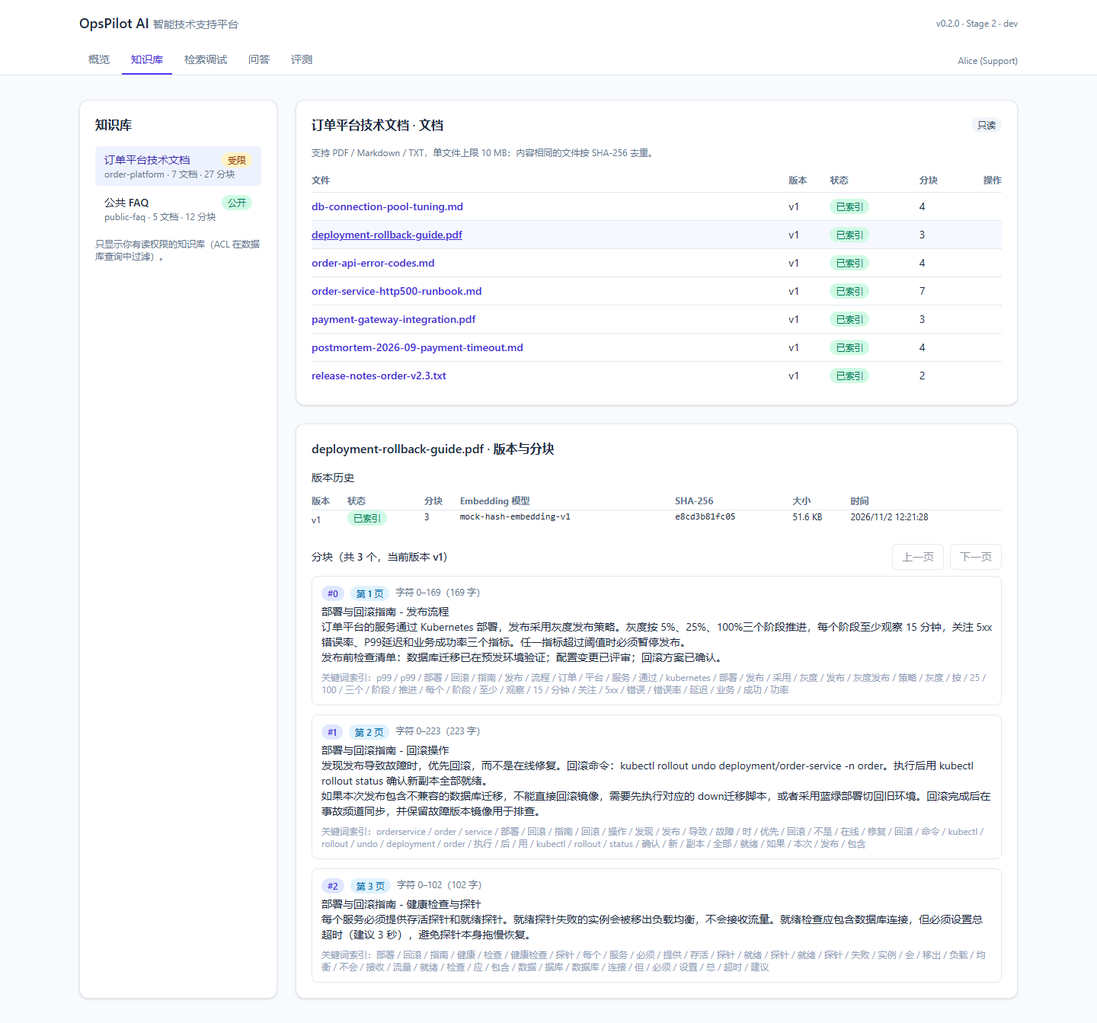
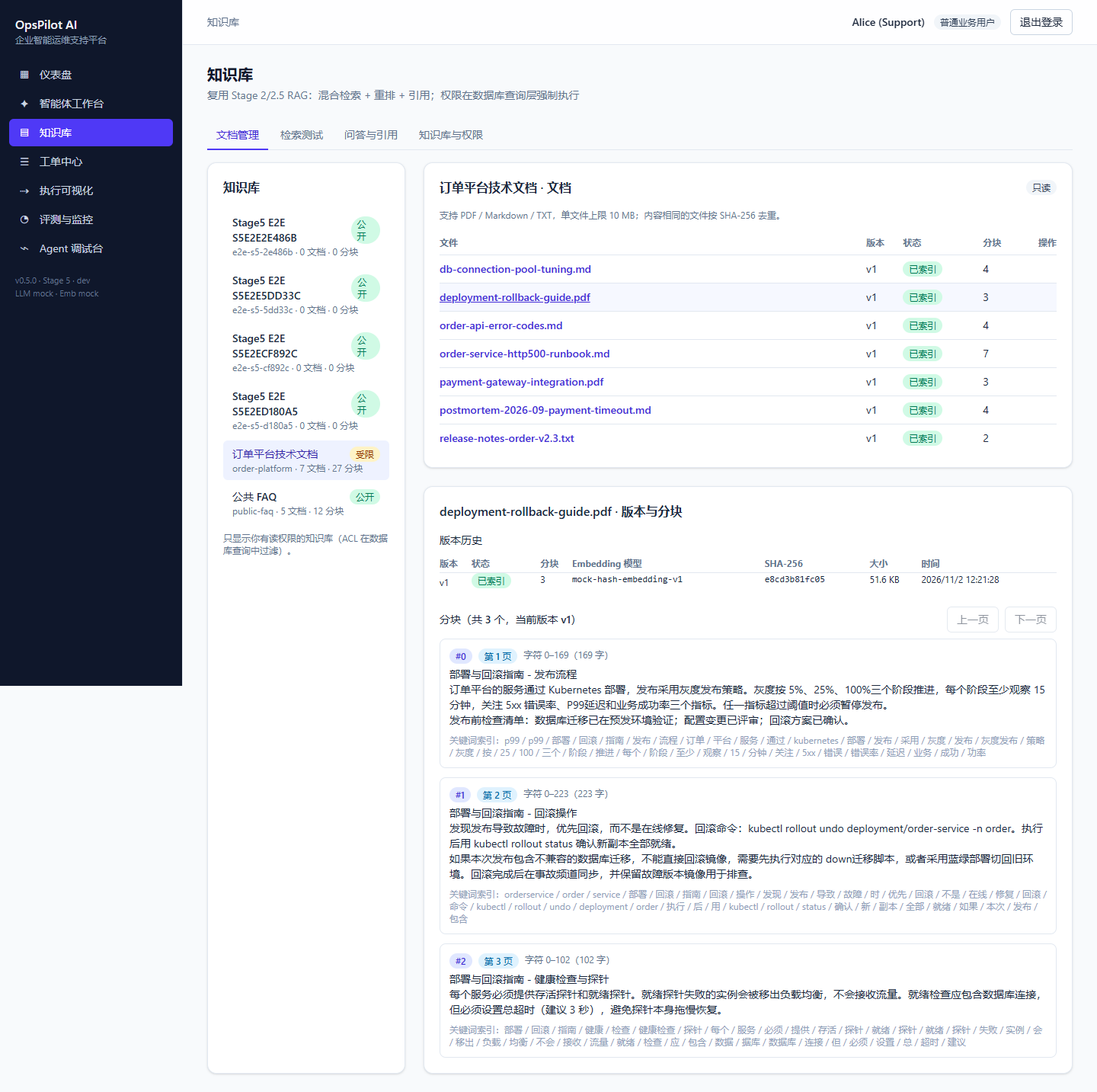
docs(stage5): report, API, page map, demo script, screenshots

diff --git a/docs/API_STAGE5.md b/docs/API_STAGE5.md
@@ -1,0 +1,55 @@
+# 阶段 5 API 补充（Web 平台）
+
+Base URL（开发）：`http://localhost:8020`，前端经 Vite / nginx 以 `/api` 反向代理访问。认证、错误格式见 [API.md](API.md)。
+角色：`admin` 系统管理员 · `support` 技术支持工程师 · `user` 普通业务用户。下表「staff」= admin 或 support。
+
+## Agent 运行与 SSE
+| 方法 | 路径 | 权限 | 说明 |
+|---|---|---|---|
+| POST | `/api/v1/agent/runs` | 登录 | `{message, thread_id?, kb_ids?, stream?}`。`stream=true` 时立即返回 `{run_id, thread_id, status:"running"}`，图在后台线程执行，进度从 `/events` 读取；同一会话存在可恢复的中断运行时返回 409 |
+| GET | `/api/v1/agent/runs/{id}/events` | 创建者 / admin | **SSE**，见下 |
+| POST | `/api/v1/agent/runs/{id}/cancel` | 创建者 / admin | 协作式取消：在下一个节点边界停止，状态 `aborted`，`error="cancelled_by_user"` |
+| POST | `/api/v1/agent/runs/{id}/approval?stream=` | admin | 批准 / 驳回 / 退回修改，可后台继续执行 |
+| POST | `/api/v1/agent/runs/{id}/resume?stream=` | 创建者 / admin | 从 PostgresSaver 检查点继续 |
+| GET | `/api/v1/agent/threads` | 登录 | 本人会话列表（标题、最新状态、运行数） |
+| GET | `/api/v1/agent/threads/{thread_id}` | 本人 / admin | 会话下全部运行（刷新后恢复对话） |
+
+### SSE 协议（`text/event-stream`）
+- 事件持久化在 `agent_events(run_id, seq, type, data)`，`seq` 每个运行内从 1 递增，唯一。
+- 游标：请求头 `Last-Event-ID: <seq>` 或查询参数 `?after=<seq>`，服务端只发送 `seq` 更大的事件（断线重连不丢、不重）。
+- 每条事件：`id: <seq>`、`event: <type>`、`data: <JSON>`。首行发送 `retry: 2000`；每 10 秒发送注释心跳 `: hb`。
+- 事件类型：`run_started` · `node`（节点完成：name、耗时、摘要）· `tool`（MCP 工具调用结果）· `evidence`（证据条数、得分）· `interrupt`（等待审批）· `cancel_requested` · `final`（最终状态）。
+- 结束：运行进入非活动状态且已发出 `final` 后发送 `event: end`；超过 `max_s` 发送 `event: timeout`，客户端可带游标重连。
+- 这是**节点 / 事件级流式**，不是逐 token 流式（Mock 模型无 token 流）。
+- 前端客户端（`frontend/src/lib/sse.ts`）用 fetch 流以便携带 `Authorization` 头；指数退避重连，最多 8 次，按 `seq` 去重。E2E 中人为在第 2 条事件后切断连接，实测重连请求 `Last-Event-ID` 依次为 `0`、`2`，19 条事件无缺无重。
+
+## 仪表盘
+`GET /api/v1/dashboard/summary`（登录；运行类指标 admin 统计全部、其他角色只统计本人；工单指标 staff 全部、普通用户本人）→ 工单总数 / 待处理 / 已完成、Agent 运行数、任务成功率（同时返回 `numerator` / `denominator`，无数据时为 `null` 而不是 0%）、近 14 天每日运行数、延迟 p50 / p95（`percentile_cont`）、工具调用成功率、Mock / 真实模型使用次数、最近运行。全部来自数据库实时查询，无写死数据。
+
+## 工单
+| 方法 | 路径 | 权限 | 说明 |
+|---|---|---|---|
+| GET | `/api/v1/mcp/tickets?q&status&priority` | 登录 | user 只看本人；staff 看全部 |
+| GET | `/api/v1/mcp/tickets/{number}` | 同上 | 增加 description、resolution、updated_at、事件的 actor_name / approver_name |
+| PATCH | `/api/v1/tickets/{number}` | staff | `{status, note, resolution?}`；note 必填，`resolved` 必须填 resolution；非法流转 409。写入 TicketEvent（note 前缀 `[manual:<role>]`） |
+| GET | `/api/v1/ticket-transitions` | 登录 | 合法流转表：open→in_progress/resolved/closed；in_progress→open/resolved/closed；resolved→in_progress/closed；closed→in_progress |
+| GET | `/api/v1/ticket-drafts` | admin 全部 / 其他人本人 | 草稿 + 审批记录 |
+
+## 知识库管理
+| 方法 | 路径 | 权限 | 说明 |
+|---|---|---|---|
+| POST | `/api/v1/knowledge-bases` | staff | `{slug, name, description?, visibility}`，创建者为 owner |
+| GET | `/api/v1/knowledge-bases/{id}/permissions` | owner / KB admin 授权 / 系统管理员 | 授权列表 |
+| PUT | `/api/v1/knowledge-bases/{id}/permissions` | 同上 | 整体替换 `[{user_id, permission: read|write|admin}]`，写入 admin_audit |
+
+## 用户与权限（admin）
+| 方法 | 路径 | 说明 |
+|---|---|---|
+| GET | `/api/v1/admin/users` · `/admin/roles` · `/admin/audit` | 列表 / 角色说明 / 审计 |
+| POST | `/api/v1/admin/users` | 密码至少 10 位且含字母和数字；邮箱重复 409 |
+| PATCH | `/api/v1/admin/users/{id}` | 改角色 / 启停 / 重置密码。最后一个启用的管理员不能被降级或停用（行锁 `FOR UPDATE`，409）。审计中密码只记为 `reset` |
+| GET | `/api/v1/users/directory` | staff；授权编辑器用的精简用户列表 |
+| GET | `/api/v1/admin/settings` | 模型、运行时、付费预算与账本、健康检查。密钥只返回 `api_key_configured: true/false`，任何接口都不返回明文 |
+
+## 评测结果
+`GET /api/v1/evals/results`：读取 `evals/results/*.json`，归一为 `rag` / `agent` 两类行，带 `is_mock`、数据集、模型；缺失指标返回 `null`；无法解析的文件列在 `skipped`。前端按 Mock / 真实、数据集分组展示，不同数据集不合并平均。

diff --git a/docs/reports/STAGE5_REPORT.md b/docs/reports/STAGE5_REPORT.md
@@ -1,0 +1,48 @@
+# 阶段 5 报告：企业级 Web 平台（Mock 模型，零付费调用）
+
+日期：2026-11-08（box 时钟）· 版本 0.5.0 · tag `stage-5`（本地，未推送）
+范围：在阶段 4 后端之上做完整 React 平台。**没有新写第二套 Agent 或 RAG**，前端全部调用已有服务；后端只补 SSE 事件、平台聚合与管理接口。
+本阶段**没有任何付费调用**，也没有续跑阶段 4 获批但未执行的 Qwen 测试。
+
+## 1. 已实际验证
+| 项目 | 环境 | 结果 |
+|---|---|---|
+| 后端测试 `uv run pytest -q` | box、WSL（连接 compose 的 opspilot_test） | **257 passed, 1 skipped**（两边一致）；新增 tests/stage5：SSE 5、平台接口 7、迁移 0006 往返（一次性数据库） |
+| ruff check + format --check | box、WSL | 通过 |
+| 前端 eslint（0 warning）· tsc · vitest · build | box；WSL 的 frontend 容器内 | 通过；vitest **31 passed** |
+| 迁移 0006（agent_events、admin_audit、support 角色） | WSL 主库，迁移前备份 `data/backups/pre_stage5_20261108121146.dump`（未提交） | upgrade 成功，`/health/ready` 显示 revision 0006 |
+| Windows Edge E2E（`scripts/e2e_windows.ps1 -ProdUrl …`），exit 0 | Windows 11 Edge → WSL compose | 7 组全部通过：登录 admin / alice PASS；rag_e2e PASS；agent_e2e ok；mcp_e2e ok；**stage5_e2e 开发版 (5173) ok、生产版 (5180) ok** |
+| stage5_e2e 关键检查 | 同上 | 表单校验与错误密码；admin 建知识库并上传含唯一错误码 PGW-xxxxx 的文档 →「已索引」；检索测试命中；**SSE 第 2 条后人为断开，重连请求 Last-Event-ID = [0, 2]，19 条事件无缺无重**；alice 运行调用 5 个 MCP 工具，证据来自刚上传的文档，停在等待审批；刷新后会话恢复；alice 访问管理页显示无权访问、API 403；admin 驳回确认框 → 取消 → 批准建单（如 TCK-0014）；sam（support）改为处理中；仪表盘工单数 +1；重复登录无 401；删除文档确认框；控制台无意外错误（预期的 401/403 除外） |
+| 生产构建 | WSL `--profile prod`，nginx-unprivileged，read_only | `/` 200、SPA 回退 200、`/api` 代理 200、CSP / X-Frame-Options 等头存在；SSE location 关闭缓冲 |
+| 端口 | WSL | 5173、5180、8020、5433 均只监听 127.0.0.1 |
+| 截图 | Edge 实拍 | `docs/assets/stage5/*.png`（13 张）、`docs/assets/stage5/prod/`（4 张）；阶段 2–4 回归截图同步刷新 |
+
+## 2. 仅静态检查（未在运行环境单独验证）
+- 后台线程执行与取消在并发很高时的表现：只有单元测试和单用户 E2E，没做压力测试。
+- 心跳 `: hb` 与 `event: timeout`（max_s）：单元测试覆盖，浏览器里没有等到超时。
+- nginx 900 秒 SSE 超时：只检查了配置，没有跑满 15 分钟的连接。
+- 普通用户 / support 在仪表盘上的统计范围：代码与单元测试覆盖，E2E 只截了 admin 的仪表盘。
+- 迁移 0006 的 downgrade：只在一次性测试库验证，没在主库执行。
+
+## 3. 尚未验证 / 未完成
+- **真实 Qwen 模型**：未调用（按要求）。工作台、仪表盘的「真实模型」计数为 0。
+- 逐 token 流式：未做，SSE 是节点 / 事件级。
+- 知识库删除接口：没有，E2E 每次会留下一个空的公开知识库 `e2e-s5-*`（文档已删）；E2E 产生的测试工单也留在主库。rag_e2e 已改为显式选择知识库，不受影响。
+- 工作台左侧会话列表很长时整页变长（截图可见），应改为独立滚动。
+- 无障碍只做了基础（landmark、aria-label、跳转链接），没有用工具审计。
+- GitHub CI 未运行；未部署公网。
+
+## 4. 主要设计决定
+- **SSE 用数据库事件表**（不是内存队列）：重启、重连都能按 seq 续读；代价是每个节点一次写入。
+- **fetch 流代替 EventSource**：EventSource 不能带 Authorization 头，不想把 JWT 放进 URL。
+- **协作式取消**：只在节点边界停止，不强杀 MCP 子进程，避免半写状态。
+- **token 存 sessionStorage**：关闭标签即失效，401 统一登出并提示会话过期。
+- **生产镜像**：多阶段构建，nginx 非 root、只读根文件系统，安全头放 server 级（location 里用 `expires`，避免 add_header 覆盖继承）。
+- 评测页不同数据集、Mock 与真实不合并平均；缺失指标显示「—」而不是 0。
+
+## 5. 过程问题（如实记录）
+- **Docker 相关 skill 不存在**：要求先加载 docker-compose-patterns / docker-build-strategies，查找后无此 skill，按保守方式修改（只新增 prod compose 文件和 Dockerfile，dev compose 只加一个只读挂载和一个环境变量）。
+- **密钥泄露到会话输出**：在一次调试中对会 `source .env` 的脚本用了 `bash -x`，导致 OPSPILOT_LLM_API_KEY 和种子账号密码出现在本次工具输出里。没有写入任何文件、提交或日志文件。**建议轮换 DashScope / Qwen Key，并修改种子密码**。之后不再对加载 .env 的脚本使用 `-x`。
+
+## 6. 提交
+fc09176 后端 → 5b9ef65 前端 → ccbff7f / bb85437 / 2b3829d 生产构建与修复 → 46eeb40 E2E → 811e9fe、b77ff2c 修复 → 文档提交，tag `stage-5`（box 与 WSL，经 git bundle ff-only 同步）。

diff --git a/README.md b/README.md
@@ -3,12 +3,12 @@
 > Production-oriented AI Support & Ticket Resolution Platform
 > 面向软件企业技术支持 / 研发 / 客服团队的智能技术支持 Agent 平台：查文档、查日志、给出有出处的故障建议、生成待审工单，人工审批后才落库。
 
-**当前进度：阶段 4（MCP 工具接入 + 审批工作流，Mock 模型）已完成，在 WSL2 + Docker Compose 上实测（tag `stage-4`）** —— 详见 [docs/PROGRESS.md](docs/PROGRESS.md)、[阶段 4 报告](docs/reports/STAGE4_REPORT.md)、[ADR-004](docs/adr/ADR-004-stage4-mcp.md)。
+**当前进度：阶段 5（企业级 Web 平台，Mock 模型）已完成，在 WSL2 + Docker Compose + Windows Edge 上实测（tag `stage-5`）** —— 详见 [阶段 5 报告](docs/reports/STAGE5_REPORT.md)、[页面地图](docs/PAGE_MAP.md)、[阶段 5 API](docs/API_STAGE5.md)、[演示脚本](docs/DEMO_SCRIPT.md)、[docs/PROGRESS.md](docs/PROGRESS.md)。
 工具经真实 MCP 协议（官方 SDK mcp 2.3，stdio 子进程）调用；审批通过后才由 Ticket MCP 创建正式工单。Agent 默认 Mock（规则 + 抽取式，未调用大模型）；阶段 4 的真实 Qwen 测试待授权（[预算方案](docs/STAGE4_QWEN_BUDGET_PLAN.md)）。README 只写已经验证过的内容。
 
 > ⚠ 默认 **Mock 模式**：mock embedding 是特征哈希的字/词袋向量，**没有语义理解**；mock 回答器是**抽取式**的（摘录原文 + 引用），**没有调用大模型**。界面和接口都明确标注了这一点。阶段 2.5 起可选**免费本地 CPU 模型**（bge-small-zh-v1.5 / bge-m3 embedding、bge-reranker-base 重排），已实测；真实 DashScope / Qwen 付费路径有多重守卫，**尚未运行**（[方案待批准](docs/STAGE2_5_PAID_EMBED_PLAN.md)）。
 
-![评测页：Mock vs 真实 Embedding 并排对比（WSL2 实测，Windows Edge 截图）](docs/assets/stage25-evals-matrix.png)
+![阶段 5 仪表盘（Windows Edge 截图，数据来自数据库）](docs/assets/stage5/s5_dashboard_after.png)
 
 ## 文档
 - [PRD 需求说明](docs/PRD.md) · [架构说明](docs/ARCHITECTURE.md) · [数据库设计](docs/DATABASE.md) · [API 设计](docs/API.md)
@@ -100,6 +100,21 @@ cd frontend && npm ci && npm run dev      # :5173，需要 Node 22
 **免费本地模型（阶段 2.5，CPU，不需要 Key）**：`uv sync --group local-embed`（装 torch CPU 版约 1 GB；注意 `--all-groups` 也会装它），设置 `OPSPILOT_EMBEDDING_PROVIDER=local`（默认 bge-small-zh-v1.5，固定 revision），可选 `OPSPILOT_RERANKER=cross_encoder`（约 2 秒/查询）。首次下载模型后可设 `HF_HUB_OFFLINE=1`。每个 embedding 模型有独立索引，切换模型不会删除或混用旧向量，需对文档「重建索引」。
 本地评测：`uv run --group local-embed python evals/run_retrieval_eval.py --embedding local --dataset dev|heldout --rerankers rule,cross_encoder`。
 **付费路径**（`--embedding dashscope --i-understand-this-costs-money`）另需 `OPSPILOT_ALLOW_PAID_API=true`、`OPSPILOT_PAID_APPROVAL_ID`、`OPSPILOT_PAID_BUDGET_CNY`，超出预算在发请求前拒绝；**尚未运行**。
+
+## 阶段 5：Web 平台
+| 地址 | 说明 |
+|---|---|
+| http://localhost:5173 | 开发版（Vite） |
+| http://localhost:5180 | 生产版（nginx，`docker compose --env-file .env -f infra/docker-compose.yml -f infra/docker-compose.prod.yml --profile prod up -d --build frontend_prod`） |
+| http://localhost:8020/docs | 后端 API |
+
+三种角色：系统管理员（admin）、技术支持工程师（support，种子账号 sam@opspilot.local）、普通业务用户（user）。页面：仪表盘、智能体工作台（SSE 实时节点 / 工具 / 证据，断线按 Last-Event-ID 续传）、知识库与授权、工单中心与审批、执行可视化、评测与监控、用户与权限、系统设置（密钥只显示是否配置）。
+```bash
+cd frontend && npm run lint && npx tsc --noEmit -p . && npx vitest run && npm run build
+# Windows Edge 全量 E2E（开发版 + 生产版，截图）
+powershell -ExecutionPolicy Bypass -File scripts\e2e_windows.ps1 -Shots C:\tmp\shots -ProdUrl http://localhost:5180
+```
+升级到阶段 5 需要迁移 0006（backend 启动时自动执行；建议先 `pg_dump` 备份）。
 
 ## 阶段 4：MCP 工具 + 审批工作流（Mock 模型）
 三个 MCP Server（stdio，后端按需拉起，无需单独部署）：

diff --git a/docs/PAGE_MAP.md b/docs/PAGE_MAP.md
@@ -1,0 +1,18 @@
+# 页面地图（阶段 5）
+
+History 路由（`frontend/src/lib/router.tsx`），旧的 `#hash` 地址自动跳转。未登录访问任何页面跳到 `/login?next=…`；无权限显示「无权访问」页（对应 API 返回 403）。
+
+| 路由 | 页面 | 角色 | 主要接口 | 截图 |
+|---|---|---|---|---|
+| `/login` | 登录（表单校验、错误提示、会话过期提示） | 公开 | `POST /auth/login` | [s5_login](assets/stage5/s5_login.png) |
+| `/` | 仪表盘：工单、运行、成功率（含分子分母）、p50/p95、工具成功率、Mock/真实用量、每日趋势、最近运行 | 全部（按角色限定范围） | `/dashboard/summary` | [s5_dashboard_after](assets/stage5/s5_dashboard_after.png) |
+| `/workspace[/:threadId]` | 智能体工作台：会话列表、SSE 实时节点 / 工具 / 证据面板、取消、恢复、审批状态 | 全部 | `/agent/runs`、`/events`、`/threads` | [s5_workspace_pending](assets/stage5/s5_workspace_pending.png) |
+| `/knowledge?tab=docs|search|qa|manage` | 知识库：文档与分块、上传 / 更新版本 / 删除（确认框）、检索测试、问答、知识库与授权管理 | 全部；管理 tab 需 staff | `/knowledge-bases`、`/documents`、`/search`、`/qa`、`/permissions` | [s5_knowledge_docs](assets/stage5/s5_knowledge_docs.png) · [s5_kb_permissions](assets/stage5/s5_kb_permissions.png) |
+| `/tickets[/:number]?tab=list|drafts` | 工单中心：筛选、详情与事件时间线、人工流转（staff）、草稿审批（admin，批准 / 驳回确认 / 退回修改） | 全部 | `/mcp/tickets`、`PATCH /tickets`、`/ticket-drafts`、`/approval` | [s5_tickets_list](assets/stage5/s5_tickets_list.png) · [s5_ticket_detail](assets/stage5/s5_ticket_detail.png) · [s5_drafts_pending](assets/stage5/s5_drafts_pending.png) |
+| `/executions[/:runId]` | 执行可视化：流水线图（节点状态、耗时）、工具调用、证据、事件日志 | 全部（本人 / admin 全部） | `/agent/runs`、`/history`、`/events` | [s5_executions](assets/stage5/s5_executions.png) |
+| `/evals?tab=…` | 评测与监控：Mock / 真实分开，按数据集分组 | 全部 | `/evals/results`、`/evals/runs` | [s5_evals](assets/stage5/s5_evals.png) |
+| `/admin/users` | 用户与权限：建用户、改角色、启停、重置密码、审计 | admin | `/admin/users`、`/admin/audit` | [s5_admin_users](assets/stage5/s5_admin_users.png) |
+| `/admin/settings` | 系统设置（只读）：模型、运行时、付费开关与预算、健康检查；密钥只显示是否配置 | admin | `/admin/settings` | [s5_settings](assets/stage5/s5_settings.png) |
+| `/lab/agent` | Agent 调试台（阶段 3/4 原工作台，保留给回归 E2E） | 全部 | 同阶段 4 | — |
+
+生产构建（nginx，5180）的同组截图见 `assets/stage5/prod/`。

diff --git a/docs/PROGRESS.md b/docs/PROGRESS.md
@@ -9,8 +9,8 @@
 | 2.5 | 真实免费本地 Embedding（bge-small-zh / bge-m3，CPU）、多模型隔离索引、真实 cross-encoder、held-out 冻结评测、拒答/重排/iterative scan/token/注入修复、统一模型调用层与付费守卫、Stage 3 设计、付费对照方案（未执行） | ✅ 完成（2026-11-02），等待验收 | [STAGE2_5_REPORT](reports/STAGE2_5_REPORT.md) · [STAGE2_5_EVAL](reports/STAGE2_5_EVAL.md) · [付费方案](STAGE2_5_PAID_EMBED_PLAN.md) · [STAGE3_DESIGN](STAGE3_DESIGN.md) | `stage-2.5` |
 | 3 | LangGraph StateGraph Agent（15 节点）、5 个受控工具、超时/重试/降级、证据评估与拒答、HITL 审批（interrupt）、PostgresSaver 持久化与恢复、Agent 工作台、41 场景 Mock 评测、401 根因修复 | ✅ 完成（2026-11-02，Mock），等待验收；真实 Qwen 测试待授权 | [STAGE3_REPORT](reports/STAGE3_REPORT.md) · [Qwen 方案](STAGE3_QWEN_TEST_PLAN.md) · [ADR-003](adr/ADR-003-stage3-agent.md) | `stage-3` |
 | 4 | 三个真实 MCP Server（官方 SDK mcp 2.3，stdio + 可选加固 HTTP）、LangGraph ↔ MCP 集成、ORD-5003 事件 → 草稿 → 审批（批准 / 驳回 / 退回修改 / 过期 / 重启恢复）→ Ticket MCP 建单、调用者令牌与工具安全、审计表（迁移 0005）、前端审批队列、Edge E2E、Notebook | ✅ 完成（2026-11-02，Mock），等待验收；真实 Qwen 测试待授权 | [STAGE4_REPORT](reports/STAGE4_REPORT.md) · [ADR-004](adr/ADR-004-stage4-mcp.md) · [预算方案](STAGE4_QWEN_BUDGET_PLAN.md) | `stage-4` |
-| 5 | 完整 Web 管理界面 | ⏳ 未开始 | — | — |
+| 5 | 企业级 Web 平台：History 路由 SaaS 外壳、三角色权限、仪表盘（真实数据）、SSE 智能体工作台（断线续传、取消、恢复）、知识库与授权管理、工单中心与审批、执行可视化、评测与监控、用户管理（最后管理员保护）、系统设置、生产 nginx 构建、Edge E2E（开发 + 生产） | ✅ 完成（2026-11-08，Mock），等待验收 | [STAGE5_REPORT](reports/STAGE5_REPORT.md) · [页面地图](PAGE_MAP.md) · [API](API_STAGE5.md) · [演示脚本](DEMO_SCRIPT.md) | `stage-5` |
 | 6 | 评测体系、安全测试、CI、Docker 集成、文档 | ⏳ 未开始（CI 骨架已有，未在 GitHub 运行） | — | — |
 
-## 第五阶段前仍需处理
-见 [STAGE4_REPORT §3](reports/STAGE4_REPORT.md#3-尚未验证--未完成)。
+## 第六阶段前仍需处理
+见 [STAGE5_REPORT §3](reports/STAGE5_REPORT.md#3-尚未验证--未完成)。

diff --git a/docs/DEMO_SCRIPT.md b/docs/DEMO_SCRIPT.md
@@ -1,0 +1,13 @@
+# 演示脚本（阶段 5，约 8 分钟，全程 Mock、零费用）
+
+准备：`docker compose --env-file .env -f infra/docker-compose.yml up -d`，执行种子与语料导入（见 README）。开发版 http://localhost:5173，生产版 http://localhost:5180（`--profile prod`）。演示账号密码见本地 `.env`（不要写进幻灯片）。
+
+1. **登录与角色（1 分钟）**：先空提交看表单校验，再输错密码看统一错误提示。用 admin 登录，侧边栏 9 项；换 alice（普通业务用户），「用户与权限」「系统设置」不可见，直接输入 `/admin/users` 显示「无权访问」。
+2. **仪表盘（1 分钟）**：说明每个数字都来自数据库；成功率旁显示分子 / 分母；p50 / p95 延迟；Mock 与真实调用分开计数（当前真实为 0）。
+3. **知识库（1.5 分钟）**：admin 在「管理」创建知识库并授权；上传一份含错误码的文档，状态变成「已索引」；「检索测试」四种模式，提示 Mock embedding 没有语义理解；演示「更新」新版本与删除确认框。
+4. **智能体工作台（2 分钟）**：alice 输入「PGW-xxxxx 支付网关熔断导致下单失败，请分析日志并帮我创建一个工单」。右侧实时显示节点、MCP 工具（search_knowledge、analyze_error_code、query_system_logs、get_service_status、create_ticket_draft）和证据，证据来自刚上传的文档；最后停在「等待审批」。刷新页面，会话和状态从 API 恢复。可以讲 SSE 断线重连（Last-Event-ID）。
+5. **审批与工单（1.5 分钟）**：admin 在「工单中心 → 草稿审批」看证据，演示「驳回」确认框后取消，再「批准」→ 生成工单号。用 sam（技术支持工程师）把工单改为「处理中」并填写备注，事件时间线记录人工操作。回到仪表盘，工单数 +1。
+6. **执行可视化与评测（1 分钟）**：打开该次运行的流水线图和事件日志；评测页 Mock / 真实分开展示。
+7. **设置（0.5 分钟）**：付费接口「关闭（默认）」，API Key 只显示「是否已配置」。
+
+自动化等价：`scripts/e2e_windows.ps1 -ProdUrl http://localhost:5180`（Windows Edge，会依次跑全部 E2E 并截图）。

diff --git a/docs/API.md b/docs/API.md
@@ -1,6 +1,8 @@
 # API 设计
 
-Base URL：`http://localhost:8000`。交互式文档：`/docs`（Swagger）、`/openapi.json`。
+> 阶段 5 新增接口（SSE、仪表盘、工单流转、用户与权限、知识库授权、评测结果）见 [API_STAGE5.md](API_STAGE5.md)。
+
+Base URL：`http://localhost:8020`（compose 默认端口）。交互式文档：`/docs`（Swagger）、`/openapi.json`。
 认证：`Authorization: Bearer <JWT>`。所有响应带 `X-Request-ID`。
 
 **统一错误格式**
@@ -24,7 +26,7 @@ Base URL：`http://localhost:8000`。交互式文档：`/docs`（Swagger）、`/
 |---|---|---|---|---|
 | POST | `/api/v1/auth/login` | 公开 | `{email,password}` → `{access_token, token_type, expires_in, user}`；邮箱不区分大小写；错误信息统一，不泄露账号是否存在 | ✅ |
 | GET | `/api/v1/auth/me` | 登录 | 当前用户 | ✅ |
-| GET/POST/PATCH | `/api/v1/users` | admin | 用户管理 | 🔜 5 |
+| GET/POST/PATCH | `/api/v1/admin/users` | admin | 用户管理（见 API_STAGE5） | ✅ 5 |
 
 ## 知识库与检索（阶段 2）✅
 权限：读 = admin / public / owner / `kb_permissions` 授权；写 = admin / owner / `write|admin` 授权。无读权限一律 **404**（不暴露资源是否存在），有读无写 **403**。
@@ -48,10 +50,10 @@ Base URL：`http://localhost:8000`。交互式文档：`/docs`（Swagger）、`/
 
 上传解析错误码：`unsupported_type` `empty_file` `too_large` `content_mismatch` `binary_content` `decode_failed` `pdf_encrypted` `pdf_corrupt` `pdf_no_text` `no_chunks` `embedding_failed`。
 
-🔜 知识库创建 / 授权管理接口（`POST /knowledge-bases`、`PUT/DELETE …/permissions/{user_id}`）放在阶段 5 管理界面，目前由种子脚本创建。
+✅ 知识库创建与授权管理接口已在阶段 5 实现（`POST /knowledge-bases`、`GET/PUT …/permissions`），见 [API_STAGE5.md](API_STAGE5.md)。
 
 ## Agent（原设计，已被下方阶段 3 实现取代）
-SSE 流式事件（`text/event-stream`、`/events`）**尚未实现**，留待后续阶段；当前实现见下节。
+SSE 流式事件已在阶段 5 实现：`GET /api/v1/agent/runs/{id}/events`，见 [API_STAGE5.md](API_STAGE5.md)。
 
 ## 工单与审批（阶段 4）
 | 方法 | 路径 | 权限 | 说明 |
